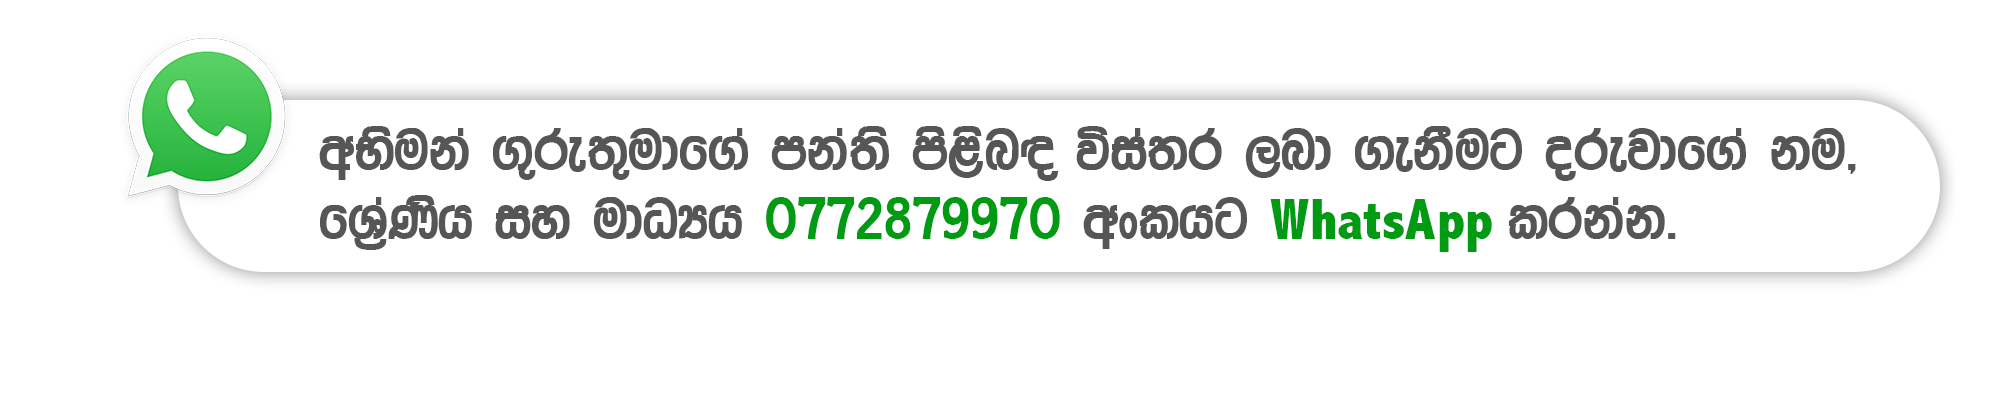
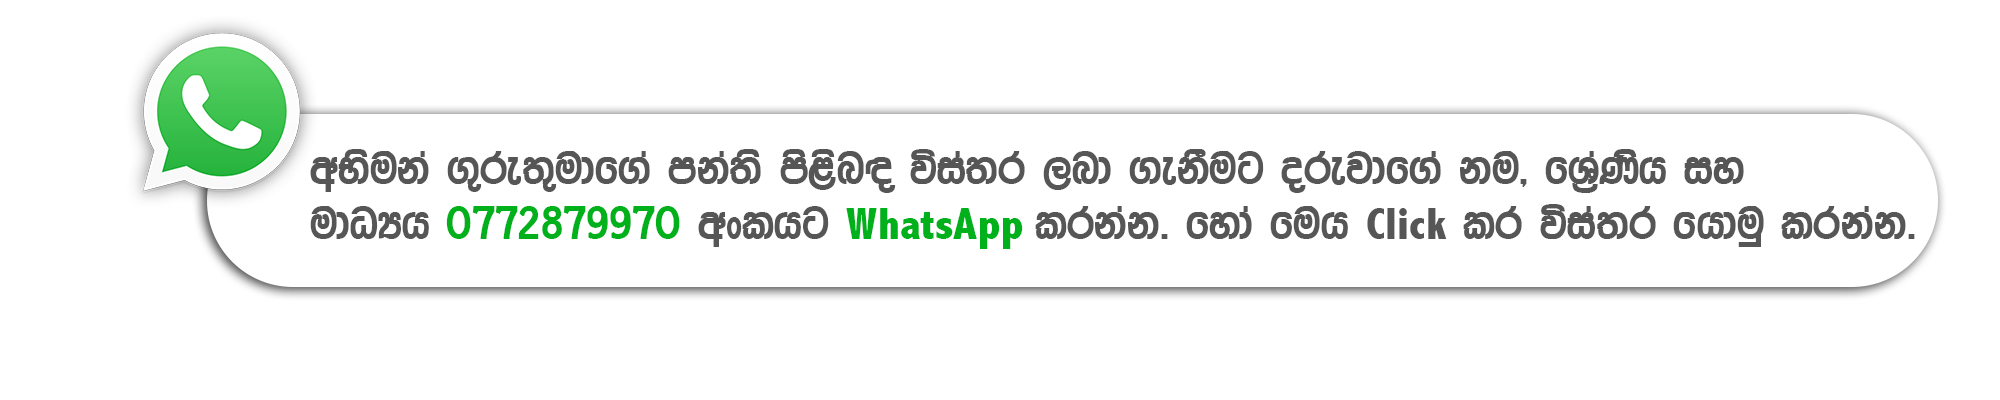
button images done

Changed region(s): [[0.062, 0.06, 0.992, 0.75], [0.961, 0.33, 0.992, 0.48]]

diff --git a/user/grade_sin.php b/user/grade_sin.php
@@ -34,78 +34,76 @@ if ($_GET["gid"] != null) {
     </div>
     <div class="content_body text-center pt-2">
         <div class="row">
-            <div class="col-sm-3 right_side">
-                <div class="row">
-                    <div class="col-md-12">
-                        <a class="btn btn-info" href="std_list_sin.php?gid=<?php echo "$gid" ?>">
-                            අපගේ පන්තියට සම්බන්ධ වන සිසුන්
-                        </a>
-                    </div>
+            <div class="col-md-4 col-sm-12">
+                <a class="" href="video_explanation.php?gid=<?php echo "$gid" ?>">
+                    <img src="inc/img/1 S.png" class="img-fluid p-2 p-sm-3" alt="smartstudent">
+                </a>
+            </div>
+            <div class="col-md-4 col-sm-12">
+                <a class="" href="std_lessons.php?gid=<?php echo "$gid" ?>">
+                    <img src="inc/img/2 S.png" class="img-fluid p-2 p-sm-3" alt="smartstudent">
+                </a>
+            </div>
+            <div class="col-md-4 col-sm-12">
+                <a class="" href="pdf.php?gid=<?php echo "$gid" ?>">
+                    <img src="inc/img/3 S.png" class="img-fluid p-2 p-sm-3" alt="smartstudent">
+                </a>
+            </div>
+            <div class="col-md-4 col-sm-12">
+                <a class="" href="video_revision.php?gid=<?php echo "$gid" ?>">
+                    <img src="inc/img/4 S.png" class="img-fluid p-2 p-sm-3" alt="smartstudent">
+                </a>
+            </div>
+            <div class="col-md-4 col-sm-12">
+                <a class="" href="std_practicles.php?gid=<?php echo "$gid" ?>">
+                    <img src="inc/img/5 S.png" class="img-fluid p-2 p-sm-3" alt="smartstudent">
+                </a>
+            </div>
+            <div class="col-md-4 col-sm-12">
+                <a class="" href="std_pdf_school.php?gid=<?php echo "$gid" ?>">
+                    <img src="inc/img/6 S.png" class="img-fluid p-2 p-sm-3" alt="smartstudent">
+                </a>
+            </div>
+            <div class="col-md-4 col-sm-12">
+                <a class="" href="video_discussions.php?gid=<?php echo "$gid" ?>">
+                    <img src="inc/img/7 S.png" class="img-fluid p-2 p-sm-3" alt="smartstudent">
+                </a>
+            </div>
+            <div class="col-md-4 col-sm-12">
+                <a class="" href="std_pdf_notes.php?gid=<?php echo "$gid" ?>">
+                    <img src="inc/img/8 S.png" class="img-fluid p-2 p-sm-3" alt="smartstudent">
+                </a>
+            </div>
+            <div class="col-md-4 col-sm-12">
+                <a class="" class="btn btn-primary" href="std_pdf_class.php?gid=<?php echo "$gid" ?>">
+                    <img src="inc/img/9 S.png" class="img-fluid p-2 p-sm-3" alt="smartstudent">
+                </a>
+            </div>
+            <div class="col-md-12">
+                <div class="mx-auto col-sm-4">
+                    <a class="" href="std_list_sin.php?gid=<?php echo "$gid" ?>">
+                        <img src="inc/img/001 S.png" class="img-fluid p-2 p-sm-3" alt="smartstudent">
+                    </a>
                 </div>
             </div>
-            <div class="col-sm-9 left_side">
-                <div class="row">
-                    <div class="col-md-4 col-sm-12">
-                        <a class="btn btn-secondary" href="video_explanation.php?gid=<?php echo "$gid" ?>">
-                            අභිමන් ගුරුතුමා විසින් සිදුකරන ලද පාඩම් පැහැදිලි කිරීම්
-                        </a>
-                    </div>
-                    <div class="col-md-4 col-sm-12">
-                        <a class="btn btn-secondary" href="std_lessons.php?gid=<?php echo "$gid" ?>">
-                            සිසුන් විසින් සිදුකරන ලද පාඩම් පැහැදිලි කිරීම්
-                        </a>
-                    </div>
-                    <div class="col-md-4 col-sm-12">
-                        <a class="btn btn-secondary" href="pdf.php?gid=<?php echo "$gid" ?>">
-                            පොත් සහ ප්රශ්න පත්ර
-                        </a>
-                    </div>
-                    <div class="col-md-4 col-sm-12">
-                        <a class="btn btn-secondary" href="video_revision.php?gid=<?php echo "$gid" ?>">
-                            අභිමන් ගුරුතුමා විසින් සිදුකරන ලද පාඩම් පුණරීක්ෂණ
-                        </a>
-                    </div>
-                    <div class="col-md-4 col-sm-12">
-                        <a class="btn btn-secondary" href="std_practicles.php?gid=<?php echo "$gid" ?>">
-                            සිසුන් විසින් සිදුකරන ලද විද්යාව ප්රායෝගික පරීක්ෂණ
-                        </a>
-                    </div>
-                    <div class="col-md-4 col-sm-12">
-                        <a class="btn btn-secondary" href="std_pdf_school.php?gid=<?php echo "$gid" ?>">
-                            සිසුන් විසින් පිළිතුරු සපයන ලද පාසල් ප්රශ්න පත්ර
-                        </a>
-                    </div>
-                    <div class="col-md-4 col-sm-12">
-                        <a class="btn btn-secondary" href="video_discussions.php?gid=<?php echo "$gid" ?>">
-                            අභිමන් ගුරුතුමා විසින් සිදුකරන ලද ප්රශ්න පත්ර සාකච්ඡා
-                        </a>
-                    </div>
-                    <div class="col-md-4 col-sm-12">
-                        <a class="btn btn-secondary" href="std_pdf_notes.php?gid=<?php echo "$gid" ?>">
-                            සිසුන්ගේ සටහන්
-                        </a>
-                    </div>
-                    <div class="col-md-4 col-sm-12">
-                        <a class="btn btn-secondary" class="btn btn-primary" href="std_pdf_class.php?gid=<?php echo "$gid" ?>">
-                            සිසුන් විසින් පිළිතුරු සපයන ලද විද්යාව පන්තියේ ප්රශ්න පත්ර
-                        </a>
-                    </div>
-                </div>
-            </div>
+
         </div>
         <div class="row pt-4">
             <div class="col-sm-4">
                 <img class="img-fluid" src="inc/img/Whatsapp_Webnote.png" alt="">
             </div>
             <div class="col-sm-4">
-            <img class="img-fluid" src="inc/img/Youtube_Webnote.png" alt="">
+                <img class="img-fluid" src="inc/img/Youtube_Webnote.png" alt="">
+                <script src="https://apis.google.com/js/platform.js"></script>
+
+<div class="g-ytsubscribe" data-channelid="UC2ykzJT3wdnBae-7_hDlgLQ" data-layout="full" data-count="default"></div>
             </div>
             <div class="col-sm-4">
-            <img class="img-fluid" src="inc/img/print _Webnote.png" alt="">
+                <img class="img-fluid" src="inc/img/print _Webnote.png" alt="">
             </div>
         </div>
     </div>
-    
+
 </div>
 <?php
 require_once '../dashboard/copyright.php';

diff --git a/user/grade.php b/user/grade.php
@@ -34,63 +34,57 @@ if ($_GET["gid"] != null) {
     </div>
     <div class="content_body text-center pt-2">
         <div class="row">
-            <div class="col-sm-3 right_side">
-                <div class="row">
-                    <div class="col-md-12">
-                        <a class="btn btn-info" href="std_list.php?gid=<?php echo "$gid" ?>">
-                            Our Smart Students
-                        </a>
-                    </div>
-                </div>
+            <div class="col-md-4 col-sm-12">
+                <a class="" href="video_explanation.php?gid=<?php echo "$gid" ?>">
+                    <img src="inc/img/1.png" class="img-fluid p-2 p-sm-3" alt="smartstudent">
+                </a>
             </div>
-            <div class="col-sm-9 left_side">
-                <div class="row">
-                    <div class="col-md-4 col-sm-12">
-                        <a class="btn btn-secondary" href="video_explanation.php?gid=<?php echo "$gid" ?>">
-                            Lesson Explanation
-                        </a>
-                    </div>
-                    <div class="col-md-4 col-sm-12">
-                        <a class="btn btn-secondary" href="std_lessons.php?gid=<?php echo "$gid" ?>">
-                            Lesson Explanation by Students
-                        </a>
-                    </div>
-                    <div class="col-md-4 col-sm-12">
-                        <a class="btn btn-secondary" href="pdf.php?gid=<?php echo "$gid" ?>">
-                            Books and Papers
-                        </a>
-                    </div>
-                    <div class="col-md-4 col-sm-12">
-                        <a class="btn btn-secondary" href="video_revision.php?gid=<?php echo "$gid" ?>">
-                            Lesson Revision
-                        </a>
-                    </div>
-                    <div class="col-md-4 col-sm-12">
-                        <a class="btn btn-secondary" href="std_practicles.php?gid=<?php echo "$gid" ?>">
-                            Practicals by Students
-                        </a>
-                    </div>
-                    <div class="col-md-4 col-sm-12">
-                        <a class="btn btn-secondary" href="std_pdf_school.php?gid=<?php echo "$gid" ?>">
-                            Students School Papers
-                        </a>
-                    </div>
-                    <div class="col-md-4 col-sm-12">
-                        <a class="btn btn-secondary" href="video_discussions.php?gid=<?php echo "$gid" ?>">
-                            Paper Discussions
-                        </a>
-                    </div>
-                    <div class="col-md-4 col-sm-12">
+            <div class="col-md-4 col-sm-12">
+                <a class="" href="std_lessons.php?gid=<?php echo "$gid" ?>">
+                    <img src="inc/img/2.png" class="img-fluid p-2 p-sm-3" alt="smartstudent">
+                </a>
+            </div>
+            <div class="col-md-4 col-sm-12">
+                <a class="" href="pdf.php?gid=<?php echo "$gid" ?>">
+                    <img src="inc/img/3.png" class="img-fluid p-2 p-sm-3" alt="smartstudent">
+                </a>
+            </div>
+            <div class="col-md-4 col-sm-12">
+                <a class="" href="video_revision.php?gid=<?php echo "$gid" ?>">
+                    <img src="inc/img/4.png" class="img-fluid p-2 p-sm-3" alt="smartstudent">
+                </a>
+            </div>
+            <div class="col-md-4 col-sm-12">
+                <a class="" href="std_practicles.php?gid=<?php echo "$gid" ?>">
+                    <img src="inc/img/5.png" class="img-fluid p-2 p-sm-3" alt="smartstudent">
+                </a>
+            </div>
+            <div class="col-md-4 col-sm-12">
+                <a class="" href="std_pdf_school.php?gid=<?php echo "$gid" ?>">
+                    <img src="inc/img/6.png" class="img-fluid p-2 p-sm-3" alt="smartstudent">
+                </a>
+            </div>
+            <div class="col-md-4 col-sm-12">
+                <a class="" href="video_discussions.php?gid=<?php echo "$gid" ?>">
+                    <img src="inc/img/7.png" class="img-fluid p-2 p-sm-3" alt="smartstudent">
+                </a>
+            </div>
+            <div class="col-md-4 col-sm-12">
 
-                        <a class="btn btn-secondary" href="std_pdf_notes.php?gid=<?php echo "$gid" ?>">
-                            Student Notes
-                        </a>
-                    </div>
-                    <div class="col-md-4 col-sm-12">
-                        <a class="btn btn-secondary" class="btn btn-primary" href="std_pdf_class.php?gid=<?php echo "$gid" ?>">
-                            Students Class Papers
-                        </a>
-                    </div>
+                <a class="" href="std_pdf_notes.php?gid=<?php echo "$gid" ?>">
+                    <img src="inc/img/8.png" class="img-fluid p-2 p-sm-3" alt="smartstudent">
+                </a>
+            </div>
+            <div class="col-md-4 col-sm-12">
+                <a class="" class="btn btn-primary" href="std_pdf_class.php?gid=<?php echo "$gid" ?>">
+                    <img src="inc/img/9.png" class="img-fluid p-2 p-sm-3" alt="smartstudent">
+                </a>
+            </div>
+            <div class="col-sm-12 right_side">
+                <div class="mx-auto col-sm-4">
+                    <a class="" href="std_list.php?gid=<?php echo "$gid" ?>">
+                        <img src="inc/img/001.png" class="img-fluid p-2 p-sm-3" alt="smartstudent">
+                    </a>
                 </div>
             </div>
         </div>
@@ -99,14 +93,17 @@ if ($_GET["gid"] != null) {
                 <img class="img-fluid" src="inc/img/Whatsapp_Webnote.png" alt="">
             </div>
             <div class="col-sm-4">
-            <img class="img-fluid" src="inc/img/Youtube_Webnote.png" alt="">
+                <img class="img-fluid" src="inc/img/Youtube_Webnote.png" alt="">
+                <script src="https://apis.google.com/js/platform.js"></script>
+
+<div class="g-ytsubscribe" data-channelid="UC2ykzJT3wdnBae-7_hDlgLQ" data-layout="full" data-count="default"></div>
             </div>
             <div class="col-sm-4">
-            <img class="img-fluid" src="inc/img/print _Webnote.png" alt="">
+                <img class="img-fluid" src="inc/img/print _Webnote.png" alt="">
             </div>
         </div>
     </div>
-    
+
 </div>
 <?php
 require_once 'copyright.php';

diff --git a/user/index.php b/user/index.php
@@ -25,12 +25,12 @@ require_once 'navheader.php';
             <div class="col-md-4 col-sm-4">
                 <h5 class="pb-3">English Medium</h5>
                 <div class="links-1">
-                    <a class="btn btn-primary btn-lg w-100 mb-2" href="grade.php?gid=7">Grade 6</a>
-                    <a class="btn btn-primary btn-lg w-100 mb-2" href="grade.php?gid=8">Grade 7</a>
-                    <a class="btn btn-primary btn-lg w-100 mb-2" href="grade.php?gid=9">Grade 8</a>
-                    <a class="btn btn-primary btn-lg w-100 mb-2" href="grade.php?gid=10">Grade 9</a>
-                    <a class="btn btn-primary btn-lg w-100 mb-2" href="grade.php?gid=11">Grade 10</a>
-                    <a class="btn btn-primary btn-lg w-100 mb-2" href="grade.php?gid=12">Grade 11</a>
+                    <a class="w-100" href="grade.php?gid=7"><img src="inc/img/6e.png" class="img-fluid p-2 p-sm-3" alt="smartstudent"></a>
+                    <a class="w-100" href="grade.php?gid=8"><img src="inc/img/7e.png" class="img-fluid p-2 p-sm-3" alt="smartstudent"></a>
+                    <a class="w-100" href="grade.php?gid=9"><img src="inc/img/8e.png" class="img-fluid p-2 p-sm-3" alt="smartstudent"></a>
+                    <a class="w-100" href="grade.php?gid=10"><img src="inc/img/9e.png" class="img-fluid p-2 p-sm-3" alt="smartstudent"></a>
+                    <a class="w-100" href="grade.php?gid=11"><img src="inc/img/10e.png" class="img-fluid p-2 p-sm-3" alt="smartstudent"></a>
+                    <a class="w-100" href="grade.php?gid=12"><img src="inc/img/11e.png" class="img-fluid p-2 p-sm-3" alt="smartstudent"></a>
                 </div>
             </div>
             <div class="col-md-4 col-sm-4 mid_col">
@@ -38,19 +38,19 @@ require_once 'navheader.php';
                     <div class="mid_logo">
                         <img class="img-fluid fot_logo px-4 py-2" src="inc/img/logo.png" alt="">
                     </div>
-                    <a class="btn btn-secondary btn-lg w-100 mb-2" href="common_video.php?gid=13">Science of Life <br> ජිවිත විද්යාව</a>
-                    <a class="btn btn-secondary btn-lg w-100 mb-2" href="ol_result.php">O/L Result</a>
+                    <a class="w-100" href="common_video.php?gid=13"><img src="inc/img/Science of Life.png" class="img-fluid" alt="smartstudent"></a>
+                    <a class="w-100" href="ol_result.php"><img src="inc/img/OL Result.png" class="img-fluid" alt="smartstudent"></a>
                 </div>
             </div>
             <div class="col-md-4 col-sm-4">
                 <h5 class="pb-3">සිංහල මාධ්යය</h5>
                 <div class="links-3">
-                    <a class="btn btn-primary btn-lg w-100 mb-2" href="grade_sin.php?gid=1">6 ශ්රේණිය</a>
-                    <a class="btn btn-primary btn-lg w-100 mb-2" href="grade_sin.php?gid=2">7 ශ්රේණිය</a>
-                    <a class="btn btn-primary btn-lg w-100 mb-2" href="grade_sin.php?gid=3">8 ශ්රේණිය</a>
-                    <a class="btn btn-primary btn-lg w-100 mb-2" href="grade_sin.php?gid=4">9 ශ්රේණිය</a>
-                    <a class="btn btn-primary btn-lg w-100 mb-2" href="grade_sin.php?gid=5">10 ශ්රේණිය</a>
-                    <a class="btn btn-primary btn-lg w-100 mb-2" href="grade_sin.php?gid=6">11 ශ්රේණිය</a>
+                    <a class="w-100" href="grade_sin.php?gid=1"><img src="inc/img/6s.png" class="img-fluid p-2 p-sm-3" alt="smartstudent"></a>
+                    <a class="w-100" href="grade_sin.php?gid=2"><img src="inc/img/7s.png" class="img-fluid p-2 p-sm-3" alt="smartstudent"></a>
+                    <a class="w-100" href="grade_sin.php?gid=3"><img src="inc/img/8s.png" class="img-fluid p-2 p-sm-3" alt="smartstudent"></a>
+                    <a class="w-100" href="grade_sin.php?gid=4"><img src="inc/img/9s.png" class="img-fluid p-2 p-sm-3" alt="smartstudent"></a>
+                    <a class="w-100" href="grade_sin.php?gid=5"><img src="inc/img/10s.png" class="img-fluid p-2 p-sm-3" alt="smartstudent"></a>
+                    <a class="w-100" href="grade_sin.php?gid=6"><img src="inc/img/11s.png" class="img-fluid p-2 p-sm-3" alt="smartstudent"></a>
                 </div>
             </div>
         </div>
@@ -62,7 +62,7 @@ require_once 'navheader.php';
                 <img class="img-fluid" src="inc/img/Youtube_Webnote.png" alt="">
                 <script src="https://apis.google.com/js/platform.js"></script>
 
-                <div class="g-ytsubscribe" data-channelid="UCeODAbqACW-Ab8kmang9Mvw" data-layout="full" data-count="default"></div>
+<div class="g-ytsubscribe" data-channelid="UC2ykzJT3wdnBae-7_hDlgLQ" data-layout="full" data-count="default"></div>
             </div>
             <div class="col-sm-4">
                 <img class="img-fluid" src="inc/img/print _Webnote.png" alt="">
